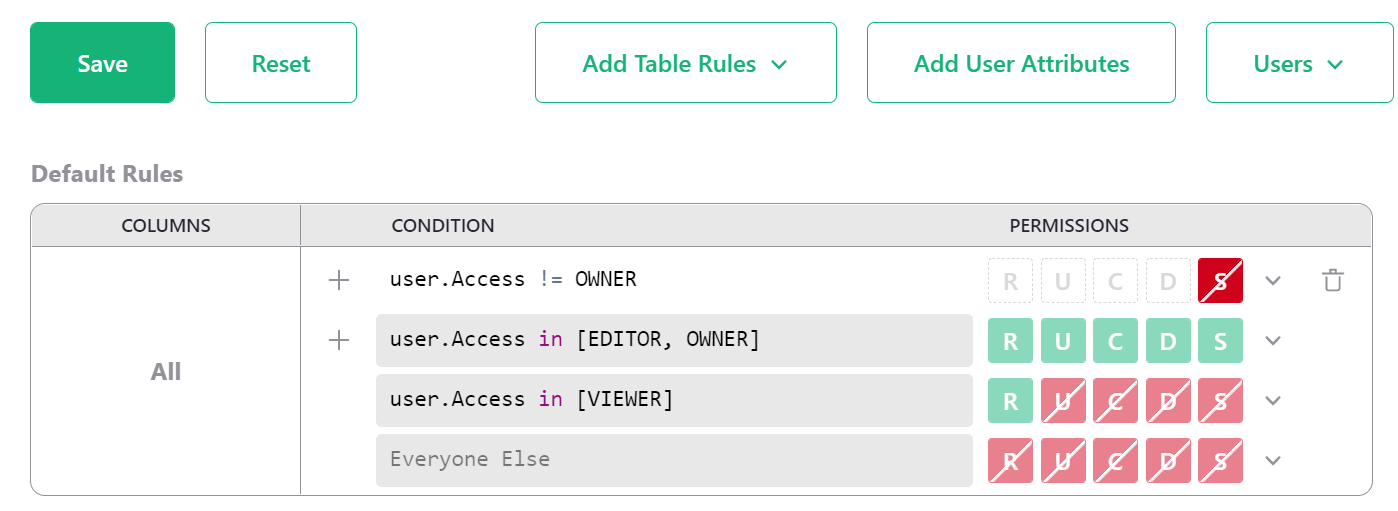
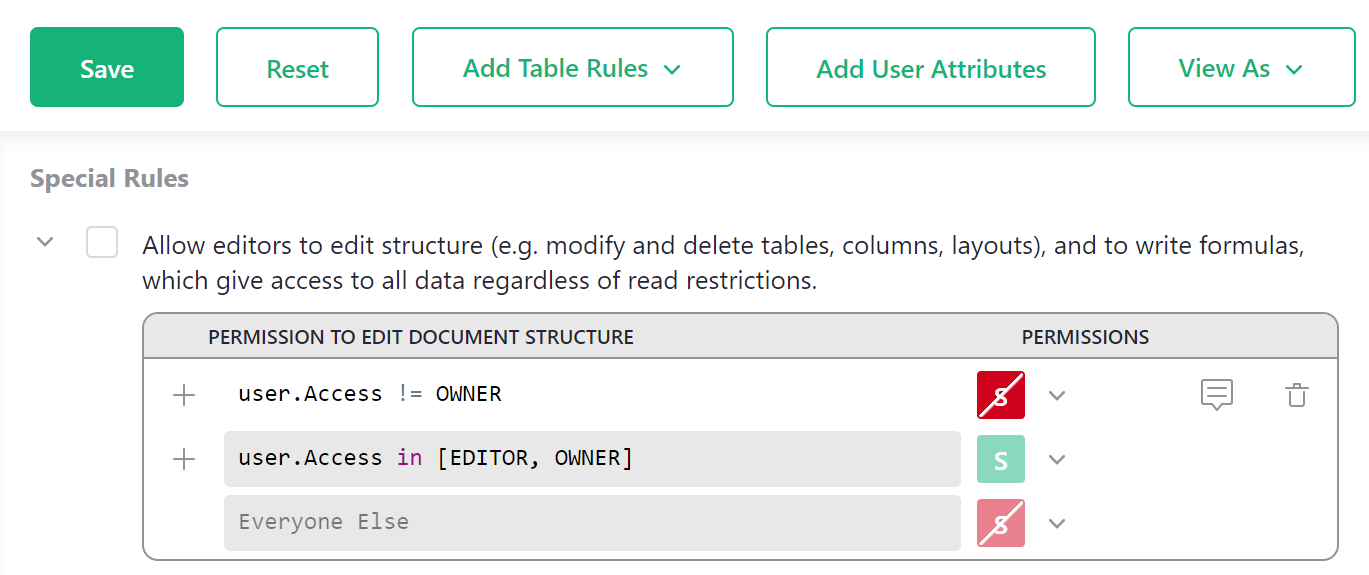
Added info for new seed rule for owners and new schema edit rule

diff --git a/help/access-rules.md b/help/access-rules.md
@@ -43,6 +43,10 @@ the rules from top to bottom, and find the first applicable rule
 that allows (green) or denies (red) that permission.
 We'll see plenty of examples as we go.
 
+As we add more specific rules for tables, we typically want to grant OWNERs full access. Rather than adding a specific rule for each table to grant this access, we can check the box next to this option under Default Rules. 
+
+![access-rules-default-owner-access](images/access-rules/access-rules-default-owner-access.png)
+
 ## Lock down structure
 
 By default Owners and Editors are equally powerful within a document, with the ability to create
@@ -50,22 +54,13 @@ or delete tables or columns, write formulas, reorganize pages, and so on.
 
 Suppose we want only the original Owners of the document to be allowed to change
 its structure, as we plan to invite other specialized collaborators as Editors.
-To do this, we add a default rule specifying that any user who is not an
-owner (`user.Access != OWNER`) should be denied structure permissions
-(`S`).  Click the little `+` sign in the `CONDITION` of the `Default Rules`
-and fill in the condition and permissions as follows:
+To do this, uncheck the box for the first rule listed under 'Special Rules' to 
+disallow editors from editing structure. 
 
 ![Access rules](images/access-rules/access-rules-lock-structure.png)
 
-For more information about possible formulas, read [Access rule conditions](access-rules.md#access-rule-conditions).
-
-Once we've made changes, the `SAVE` button becomes an inviting green
-(if is grayed out, and you've just composed a condition formula, press
-enter or click elsewhere to let Grist know you are finished).  We
-click `SAVE` for the rule to take effect.  If Grist finds errors,
-you'll be alerted and the changes will not save.
-
-![Access rules](images/access-rules/access-rules-lock-structure-saved.png)
+Once we've made changes, the `SAVE` button becomes an inviting green.  We
+click `SAVE` for the rule to take effect. 
 
 **Important.** This is an important first step for any document where you intend to block any access to Editors.
 Without denying them the structure permission (`S`), anyone with edit access will be able to
@@ -420,9 +415,7 @@ When the rule blocks a user from performing an action, the memo will appear as a
 
 For an explanation of how this particular Access Rule works, see [Access Rules to Restrict Duplicate Records](examples/2023-01-acl-memo.md)
 
-## Access rule resources and examples
-
-Check out our [Access Rules playlist](https://www.youtube.com/playlist?list=PL3Q9Tu1JOy_6q7p0P7i57Fzm4SsSAzhiQ) on Youtube for helpful walkthroughs of using Access Rules in documents.
+## Access rule examples
 
 Along with the extended example of using access rules in this section, we will
 collect complete examples of access rule templates and guides here.
